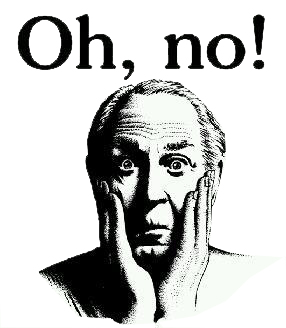
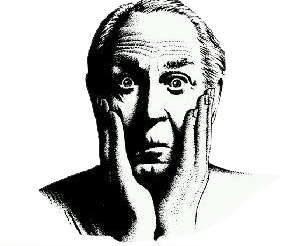
add something about the winning

Changed region(s): [[0.0559, 0.0, 0.9231, 0.9959]]

diff --git a/js/app.js b/js/app.js
@@ -1,7 +1,7 @@
 // Enemies our player must avoid
 var isPaused = false;
 var audio = document.querySelector('audio');
-audio.volume = 0.2;
+audio.volume = 1;
 var ohNoImage = document.querySelector('img');
 var Enemy = function() {
     // Variables applied to each of our instances go here,
@@ -43,8 +43,36 @@ Enemy.prototype.consoleY = function() {
 // Now write your own player class
 // This class requires an update(), render() and
 // a handleInput() method.
+var roleOfPlayer = 'images/char-cat-girl.png';
+
+var rolea = document.getElementById('rolesa');
+var roleb = document.getElementById('rolesb');
+var rolec = document.getElementById('rolesc');
+var roled = document.getElementById('rolesd');
+var rolee = document.getElementById('rolese');
+
+rolea.onclick = function(){
+    roleOfPlayer = 'images/char-boy.png';
+}
+
+roleb.onclick = function(){
+    roleOfPlayer = 'images/char-cat-girl.png';
+}
+
+rolec.onclick = function(){
+    roleOfPlayer = 'images/char-horn-girl.png';
+}
+
+roled.onclick = function(){
+    roleOfPlayer = 'images/char-pink-girl.png';
+}
+
+rolee.onclick = function(){
+    roleOfPlayer = 'images/char-princess-girl.png';
+}
+
 var Player = function(){
-    this.sprite = 'images/char-boy.png';
+    this.sprite = roleOfPlayer;
     this.x = 200;
     this.y = 280;
 }

diff --git a/js/engine.js b/js/engine.js
@@ -25,7 +25,7 @@ var Engine = (function(global) {
         ctx = canvas.getContext('2d'),
         lastTime;
     var nowTime,target,remainTime;
-    var winTime = 20;
+    var winTime = 2;
     var minutes,seconds;
 
     var winOrLose = document.getElementById('winOrLose');
@@ -126,6 +126,7 @@ var Engine = (function(global) {
                     enemy.x = -50;
                 });
                 timeBegin(winTime);
+                face.src = "images/ohno.jpg"
 
                 // ctx.drawImage(ohNoImage,0,0);
             }
@@ -141,6 +142,8 @@ var Engine = (function(global) {
         if(remainTime < 0){
         //win the game
         winOrLose.textContent = 'win';
+        var face = document.getElementById('face');
+        face.src = "images/smile.jpg"
         }
      }
 
@@ -225,7 +228,11 @@ var Engine = (function(global) {
         'images/water-block.png',
         'images/grass-block.png',
         'images/enemy-bug.png',
-        'images/char-boy.png'
+        'images/char-boy.png',
+        'images/char-cat-girl.png',
+        'images/char-horn-girl.png',
+        'images/char-pink-girl.png',
+        'images/char-princess-girl.png'
         // 'images/spideMan.png'
     ]);
     Resources.onReady(init);

diff --git a/index.html b/index.html
@@ -9,11 +9,21 @@
 <body>
 	<h1 id="aim">please insist one minute</h1>
 	<h2 id="winOrLose">win or lose</h2>
-	<img src="images/ohno.jpg">
-	<audio autoplay="true" loop controls="" >
+	<img id="face" src="images/ohno.jpg">
+	<audio  loop controls="" id="audio1">
 		<source src="audio/蘇打綠 sodagreen -【他舉起右手點名 Live】Official Music Video.mp3" type="audio/mpeg">
 	</audio>
+	<audio autoplay="true" loop controls="" id="audio2">
+		<source src="audio/Gostan - Klanga (De Hofnar Remix).mp3" type="audio/mpeg">
+	</audio>
 	<canvas id="score" width="200" height="200"></canvas>
+	<div id="selectRole">
+		<button id="rolesa"></button>
+		<button id="rolesb"></button>
+		<button id="rolesc"></button>
+		<button id="rolesd"></button>
+		<button id="rolese"></button>
+	</div>
     <script src="js/resources.js"></script>
     <script src="js/app.js"></script>
     <script src="js/engine.js"></script>

diff --git a/css/style.css b/css/style.css
@@ -6,7 +6,31 @@ body {
 	font-family: 'Bungee Shade';
 }
 
+#audio1 {
+	position: fixed;
+	top: 20px;
+	right: 0px;
+}
+
+#audio2 {
+	position: fixed;
+	top: 50px;
+	right: 0px;
+}
+
+#face {
+	position: fixed;
+	top: 20px;
+	left: 20px;
+	width: 270px;
+	height: 270px;
+	border-radius: 50%;
+}
+
 canvas#score {
 	border: 1px solid black;
 	border-radius: 50%;
+	position: fixed;
+	top: 300px;
+	left: 20px;
 }
